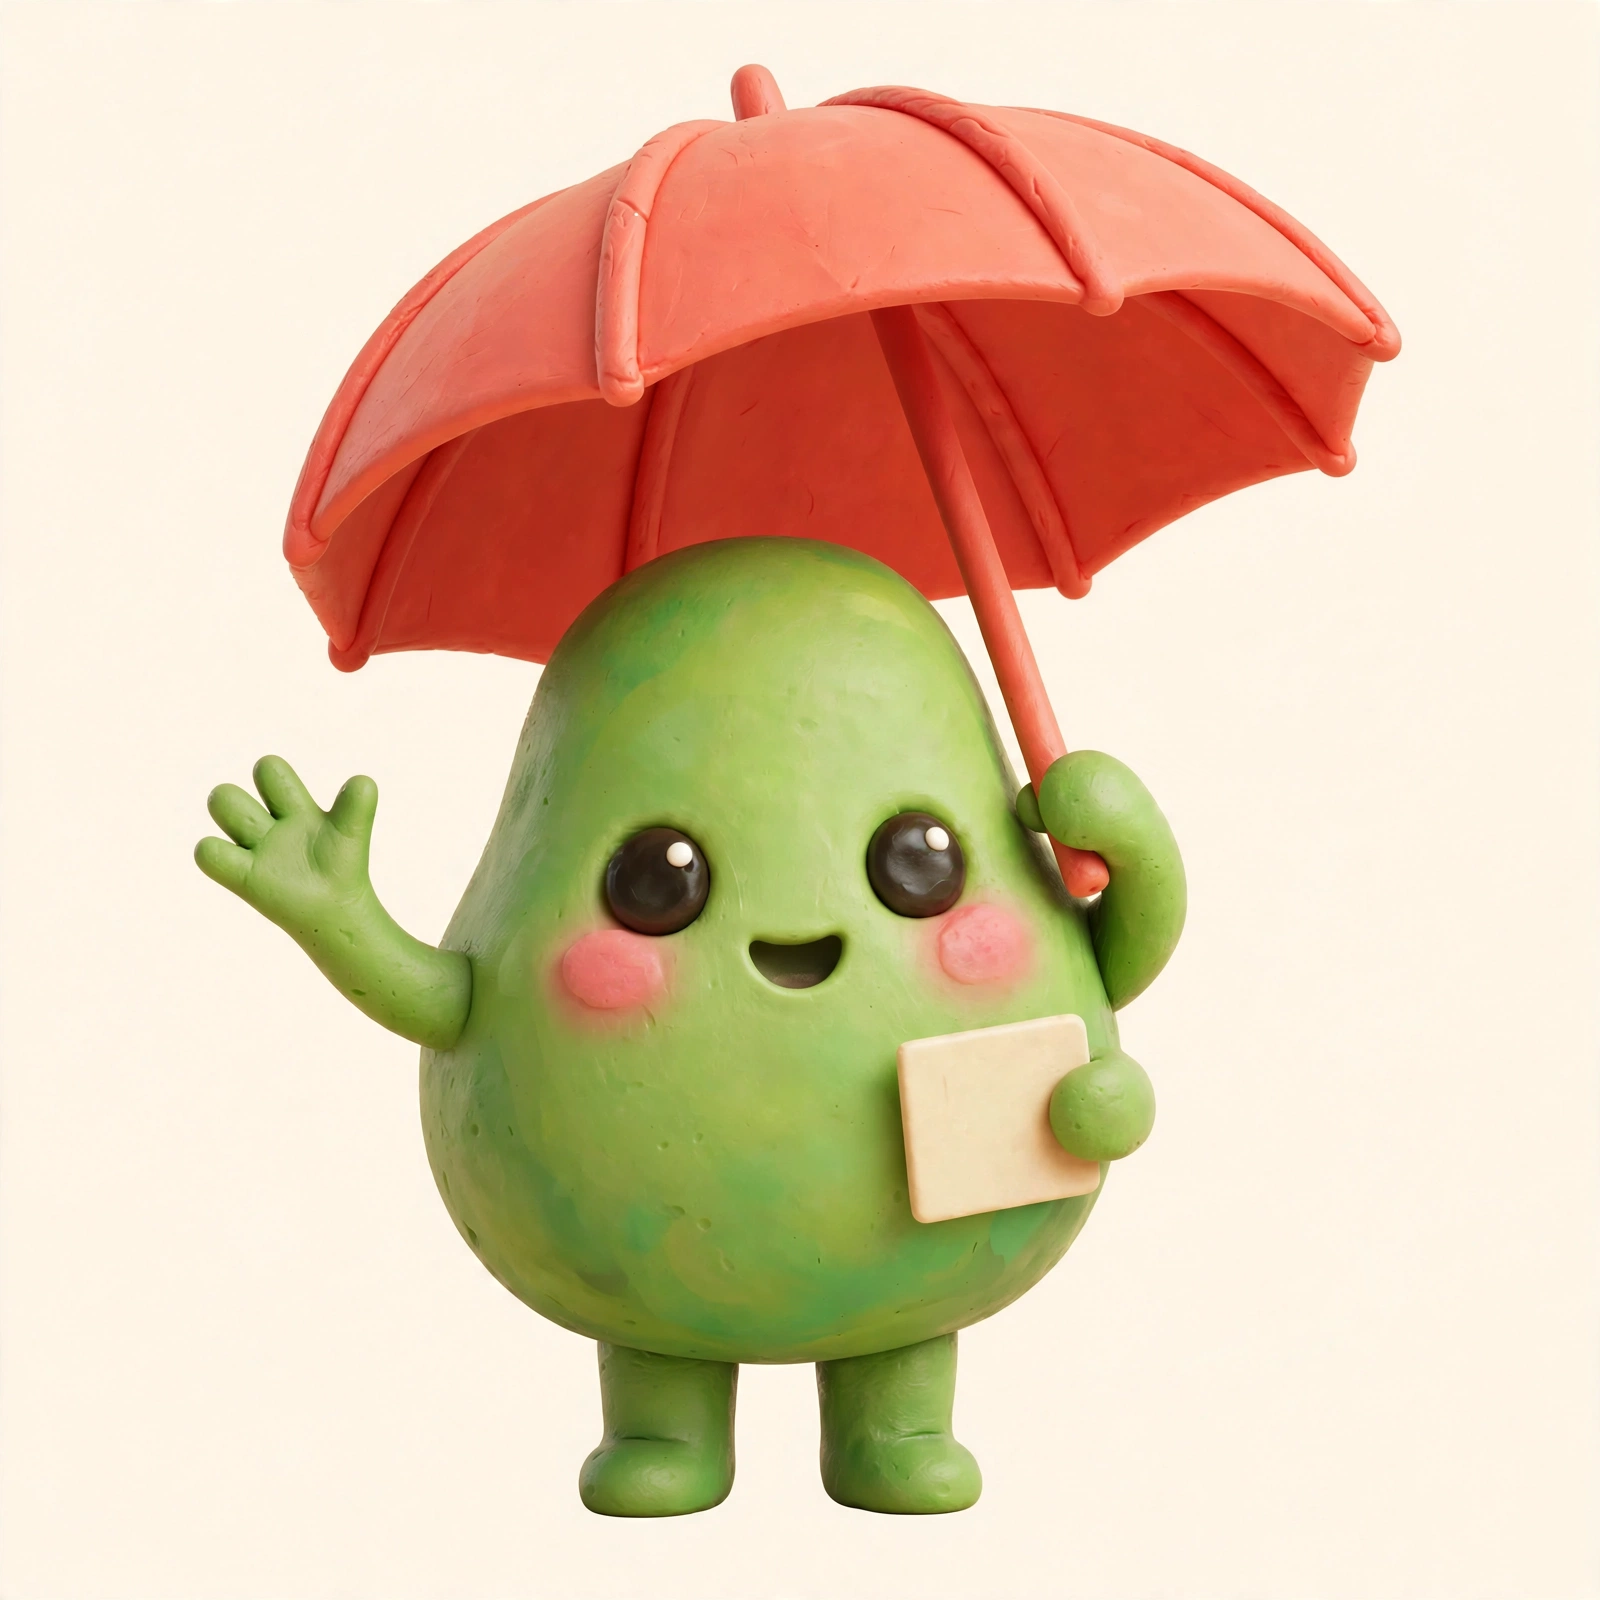
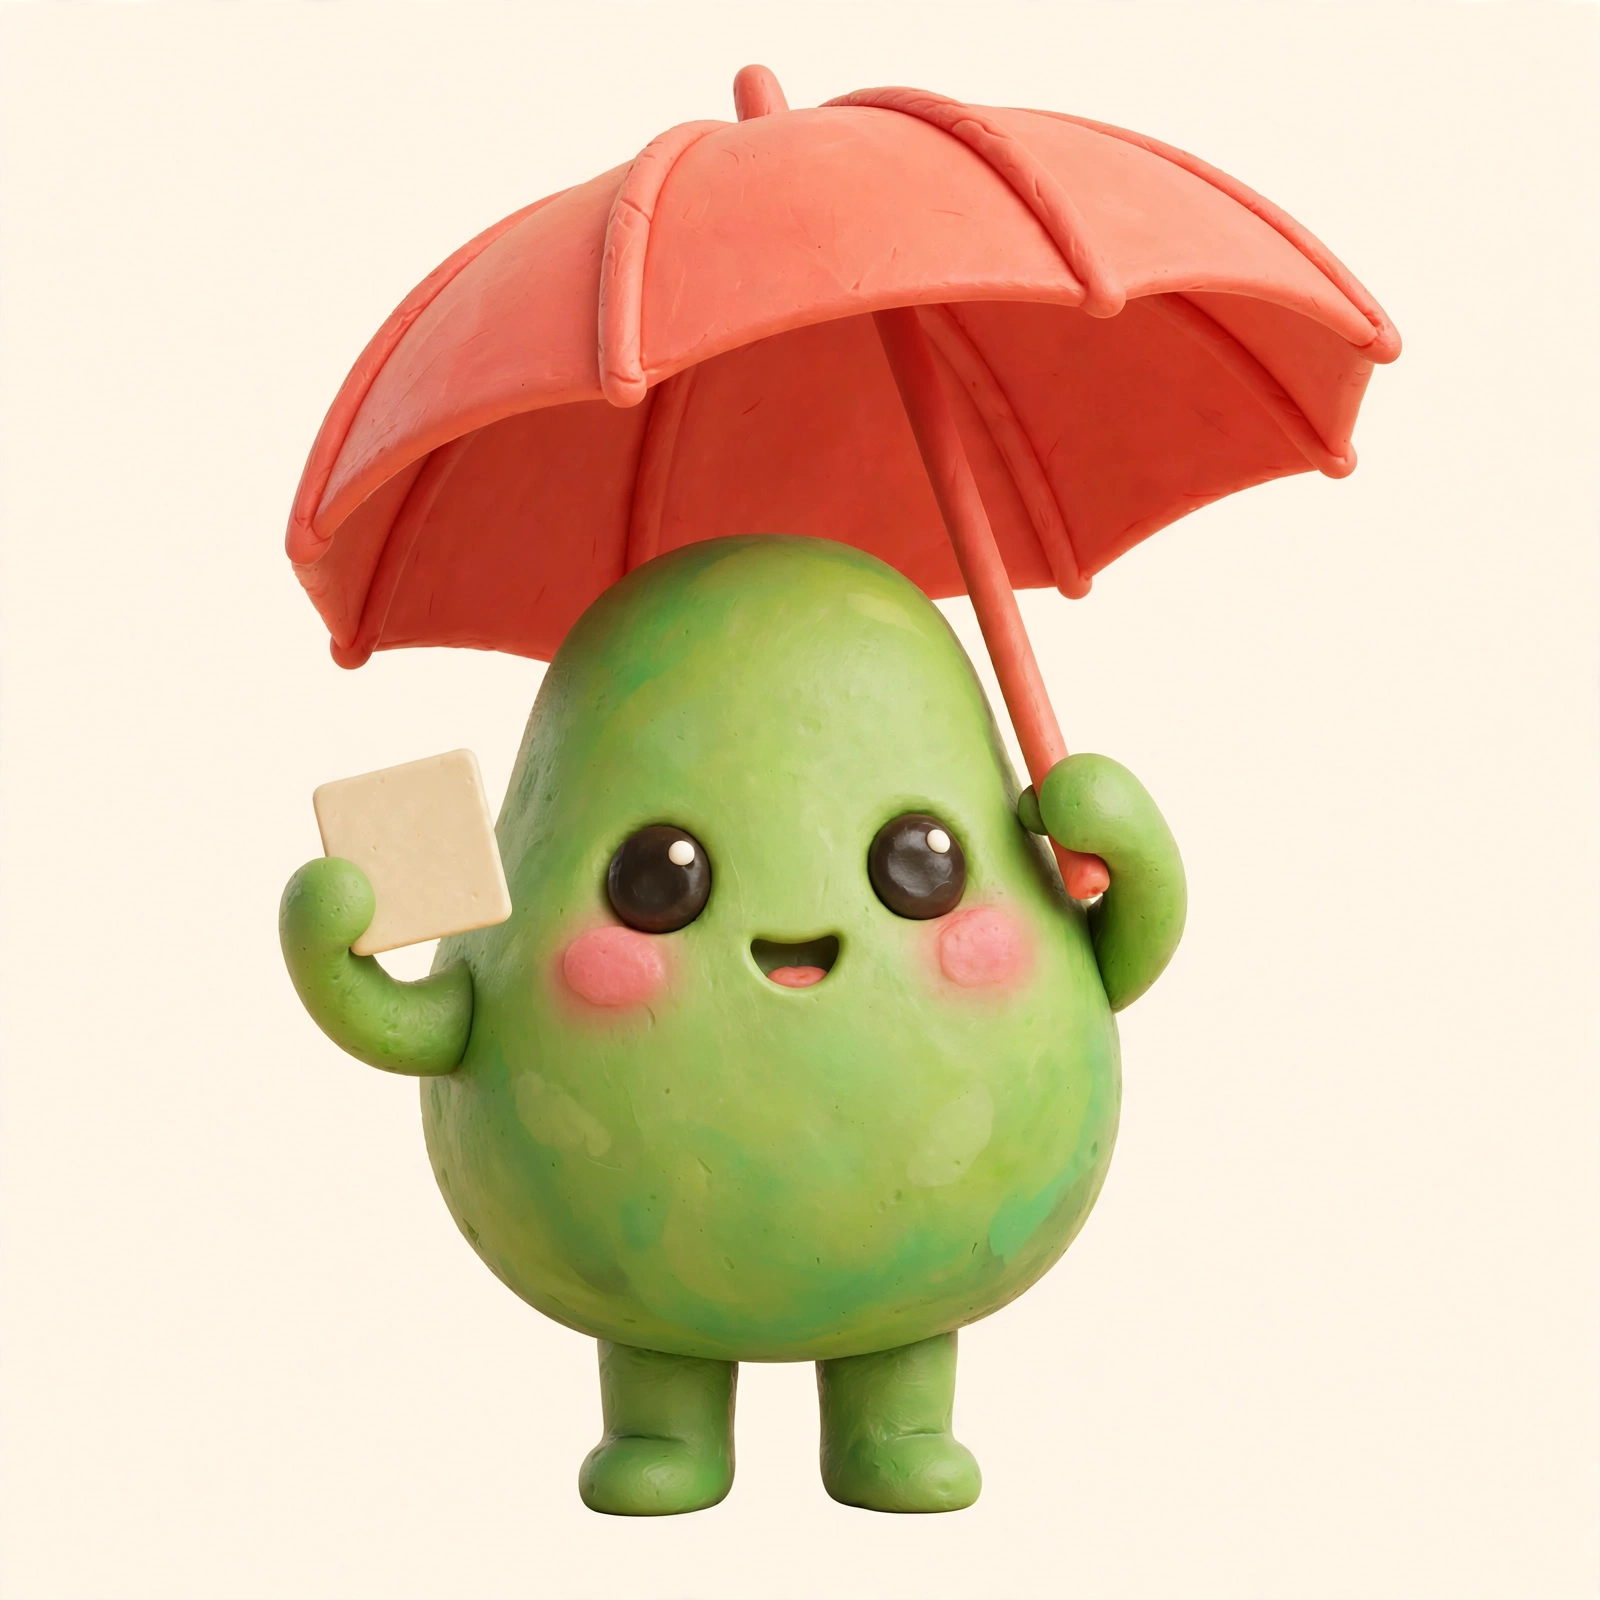
fix(peri): la pose del paraguas ya no tiene tres manos: con las dos manos ocupadas (paraguas y tarjeta), sus gestos se hacen con lo que ya sujetan; dos fotogramas nuevos de Muse Image con sus cabezas sin hoja y sus anclajes

diff --git a/assets/peri/generate.ts b/assets/peri/generate.ts
@@ -64,6 +64,17 @@ export const FRAMES: Record<string, string> = {
   stepright: "Only change: Peri lifts the foot on the right side of the image a little off the ground, that leg slightly bent at the knee, as if taking a small cheerful step; the other foot stays flat on the ground. Head, body, arms, face, props and position stay exactly the same.",
 };
 
+/**
+ * Gestures for a pose whose two hands are both busy: "raise the free hand" drew a third one on the umbrella pose, so
+ * here the gesture is made with what each hand already holds.
+ */
+export const BUSY_HANDS: Record<string, Record<string, string>> = {
+  protective: {
+    gesturea: "Change: Peri is talking with a friendly open mouth. The hand on the left side of the image, which holds the small message card, lifts the card up to chest height as if showing it; the card stays in that same hand on the left side. The hand on the right side of the image keeps holding the umbrella handle exactly as before. She has exactly two arms and two hands. Same face style, eyes, props, framing, size and position.",
+    gestureb: "Change: Peri is talking with a friendly open mouth and tilts the open umbrella slightly to one side, still holding its handle with the same hand; her other hand keeps holding the small message card. She has exactly two arms and two hands. Same face style, eyes, props, framing, size and position.",
+  },
+};
+
 /** Illustrations made from one state, for the app icon and the screens around Peri. */
 export const EXTRAS: Record<string, { from: string; prompt: string }> = {
   icon: { from: "calm", prompt: "Close-up of Peri's head only: the face large and centred, filling most of the image, warm smile, leaf on top, no arms, no legs, no props." },
@@ -188,7 +199,8 @@ if (framesMode) {
     for (const [frame, plain] of Object.entries(FRAMES)) {
       if (pickedFrames && !pickedFrames.includes(frame)) continue;
       // A worried Peri talks worried: the wide mouth otherwise comes out as a happy grin.
-      const change = state === "worried" ? `${plain.replace("happy rounded", "concerned rounded")} Keep the worried eyebrows and the concerned look; she is not smiling.` : plain;
+      const own = BUSY_HANDS[state]?.[frame] ?? plain;
+      const change = state === "worried" ? `${own.replace("happy rounded", "concerned rounded")} Keep the worried eyebrows and the concerned look; she is not smiling.` : own;
       // Gestures change the arms on purpose: they keep everything but the pose.
       const keep = frame.startsWith("gesture") ? "Same image: same character, same framing, same size and position, same background and props." : "Exactly the same image: same character, same pose, same framing, same size and position, same background and props.";
       const prompt = `${keep} ${change} ${STYLE}`;

diff --git a/android/app/src/main/java/app/friendlypear/ui/peri/PeriAnchors.kt b/android/app/src/main/java/app/friendlypear/ui/peri/PeriAnchors.kt
@@ -95,8 +95,8 @@ internal object PeriAnchors {
         R.drawable.peri_protective_glanceright to floatArrayOf(424f, 564f, 588f, 556f),
         R.drawable.peri_protective_stepleft to floatArrayOf(428f, 559f, 591f, 558f),
         R.drawable.peri_protective_stepright to floatArrayOf(420f, 566f, 580f, 548f),
-        R.drawable.peri_protective_gesturea to floatArrayOf(420f, 566f, 585f, 556f),
-        R.drawable.peri_protective_gestureb to floatArrayOf(422f, 563f, 585f, 555f),
+        R.drawable.peri_protective_gesturea to floatArrayOf(421f, 563f, 586f, 556f),
+        R.drawable.peri_protective_gestureb to floatArrayOf(428f, 569f, 589f, 551f),
         R.drawable.peri_protective_wink to floatArrayOf(414f, 561f, 586f, 556f),
         R.drawable.peri_calling_blink to floatArrayOf(405f, 466f, 608f, 455f),
         R.drawable.peri_calling_blinkhalf to floatArrayOf(403f, 485f, 604f, 468f),
@@ -231,8 +231,8 @@ internal object PeriAnchors {
         R.drawable.peri_protective_glanceright to floatArrayOf(420f, 564f, 586f, 556f),
         R.drawable.peri_protective_stepleft to floatArrayOf(427f, 566f, 593f, 558f),
         R.drawable.peri_protective_stepright to floatArrayOf(407f, 567f, 573f, 559f),
-        R.drawable.peri_protective_gesturea to floatArrayOf(419f, 565f, 585f, 557f),
-        R.drawable.peri_protective_gestureb to floatArrayOf(422f, 564f, 588f, 556f),
+        R.drawable.peri_protective_gesturea to floatArrayOf(420f, 564f, 586f, 556f),
+        R.drawable.peri_protective_gestureb to floatArrayOf(408f, 571f, 574f, 563f),
         R.drawable.peri_protective_wink to floatArrayOf(420f, 564f, 586f, 556f),
         R.drawable.peri_calling_blink to floatArrayOf(405f, 466f, 608f, 455f),
         R.drawable.peri_calling_blinkhalf to floatArrayOf(405f, 467f, 608f, 456f),

diff --git a/android/app/src/main/java/app/friendlypear/ui/peri/PeriTops.kt b/android/app/src/main/java/app/friendlypear/ui/peri/PeriTops.kt
@@ -94,8 +94,8 @@ internal object PeriTops {
         R.drawable.peri_protective_glanceright to Top(R.drawable.peri_top_protective_glanceright, floatArrayOf(291f, 0f, 271f, 440f), floatArrayOf(307f, 0f, 546f, 424f)),
         R.drawable.peri_protective_stepleft to Top(R.drawable.peri_top_protective_stepleft, floatArrayOf(303f, 0f, 273f, 435f), floatArrayOf(319f, 0f, 560f, 419f)),
         R.drawable.peri_protective_stepright to Top(R.drawable.peri_top_protective_stepright, floatArrayOf(277f, 0f, 259f, 448f), floatArrayOf(293f, 0f, 520f, 432f)),
-        R.drawable.peri_protective_gesturea to Top(R.drawable.peri_top_protective_gesturea, floatArrayOf(287f, 0f, 271f, 442f), floatArrayOf(303f, 0f, 542f, 426f)),
-        R.drawable.peri_protective_gestureb to Top(R.drawable.peri_top_protective_gestureb, floatArrayOf(291f, 0f, 271f, 440f), floatArrayOf(307f, 0f, 546f, 424f)),
+        R.drawable.peri_protective_gesturea to Top(R.drawable.peri_top_protective_gesturea, floatArrayOf(290f, 0f, 272f, 440f), floatArrayOf(306f, 0f, 546f, 424f)),
+        R.drawable.peri_protective_gestureb to Top(R.drawable.peri_top_protective_gestureb, floatArrayOf(281f, 0f, 256f, 449f), floatArrayOf(297f, 0f, 521f, 433f)),
         R.drawable.peri_protective_wink to Top(R.drawable.peri_top_protective_wink, floatArrayOf(289f, 0f, 273f, 436f), floatArrayOf(305f, 0f, 546f, 420f)),
         R.drawable.peri_calling_blink to Top(R.drawable.peri_top_calling, floatArrayOf(260f, -1f, 328f, 318f), floatArrayOf(276f, -1f, 572f, 301f)),
         R.drawable.peri_calling_blinkhalf to Top(R.drawable.peri_top_calling, floatArrayOf(260f, 0f, 328f, 318f), floatArrayOf(276f, 0f, 572f, 302f)),
